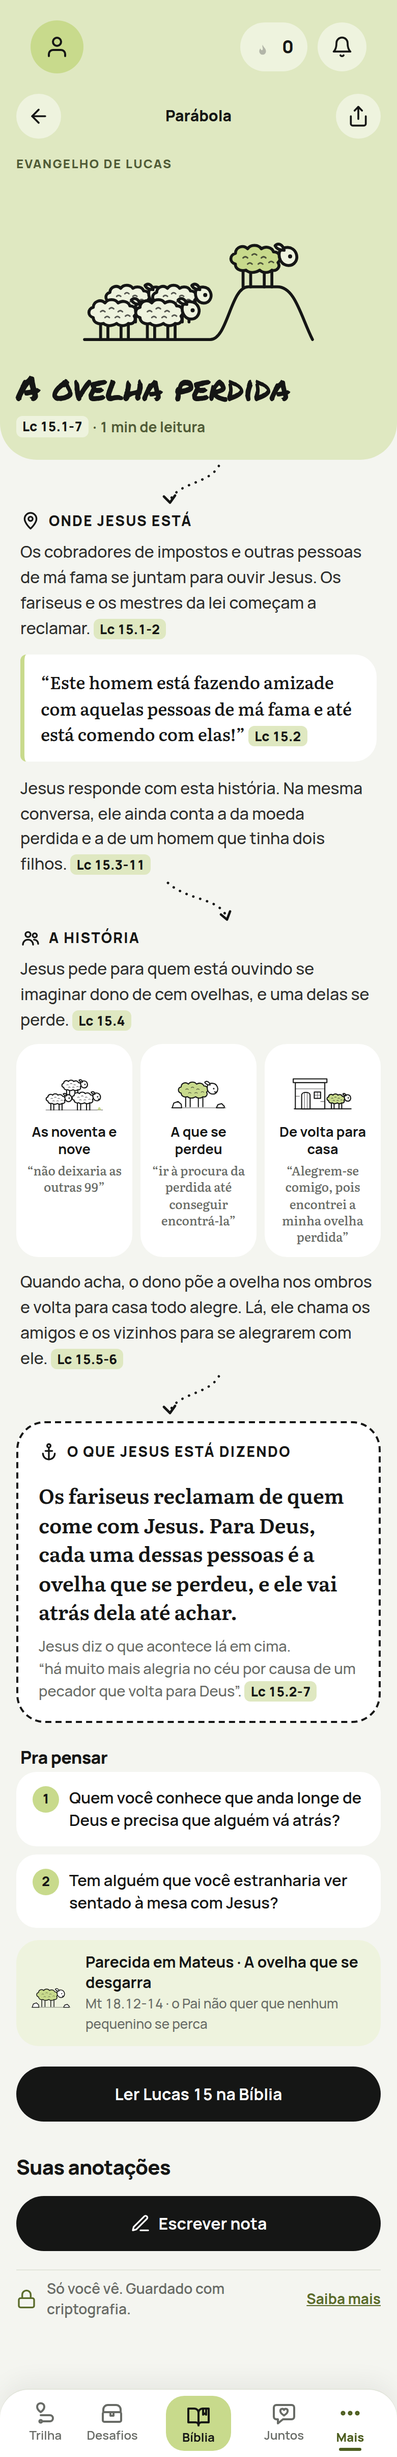
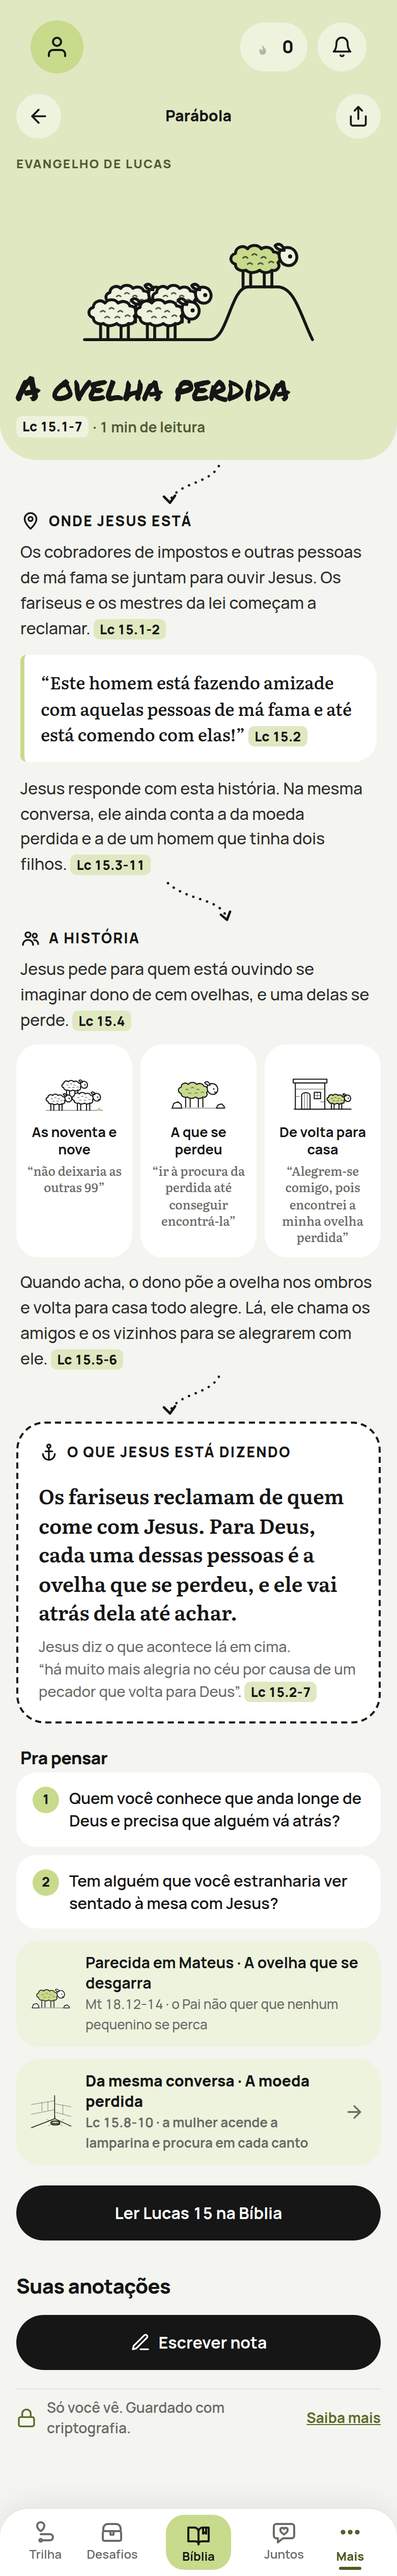
Parábolas: cartão de parecida com link, e a ovelha e a moeda ligadas
A seta do cartão de parecida que leva a outra parábola tinha ficado sem
tamanho e espremia o texto numa coluna. Agora ela tem 20px fixos, sem
encolher nem crescer, e o texto fica com o resto. O cartão com link
mostra o desenho da lista da outra parábola, e a parecida pode ter um
rótulo no lugar de "Parecida em <Livro>". A ovelha perdida e a moeda
perdida apontam uma para a outra como "Da mesma conversa". O
teste-parabolas confere, em toda parábola com parecida ligada, que o
cartão leva à outra, que a seta tem até 24px e que o texto ocupa ao
menos 60% do cartão.

Claude-Session: https://claude.ai/code/session_0181e5xzHUW8QLQRgjbfooCS

diff --git a/src/sob-demanda/parabola-tela.js b/src/sob-demanda/parabola-tela.js
@@ -128,7 +128,7 @@
     const d = p.dizendo;
     const parecidas = (p.parecidas || []).map((x) => {
       const destino = x.slug && porSlug.get(x.slug);
-      const dentro = desenho(p, p.desenhoLista) + '<span><b>Parecida em ' + CC.esc((trechoDe(x.ref) || {}).livro || '') + ' · ' + CC.esc(x.titulo) + '</b>'
+      const dentro = desenho(p, destino ? destino.desenho : p.desenhoLista) + '<span><b>' + CC.esc(x.rotulo || 'Parecida em ' + ((trechoDe(x.ref) || {}).livro || '')) + ' · ' + CC.esc(x.titulo) + '</b>'
         + '<small>' + nb(CC.esc(x.ref)) + (x.linha ? ' · ' + CC.esc(x.linha) : '') + '</small></span>';
       return destino ? '<a class="parecida-parabola" href="#/parabola/' + x.slug + '">' + dentro + CC.ico('avancar') + '</a>' : '<div class="parecida-parabola">' + dentro + '</div>';
     }).join('');

diff --git a/src/sob-demanda/parabola-tela.css b/src/sob-demanda/parabola-tela.css
@@ -86,6 +86,8 @@
 .parecida-parabola > span:not(.desenho) { display: flex; flex: 1; flex-direction: column; gap: 2px; min-width: 0; }
 .parecida-parabola b { color: var(--v2-tinta-forte); font-size: .9375rem; line-height: 1.3; }
 .parecida-parabola small { color: var(--v2-tinta-fraca); font-size: .8125rem; }
+/* a seta do cartão que leva a outra parábola: tamanho fixo, e o texto fica com o resto */
+.parecida-parabola > svg { flex: none; width: 20px; height: 20px; color: var(--v2-tinta-fraca); }
 .parabola-ler { margin-top: 20px; }
 .parabola-fim { display: block; height: 1px; }
 
